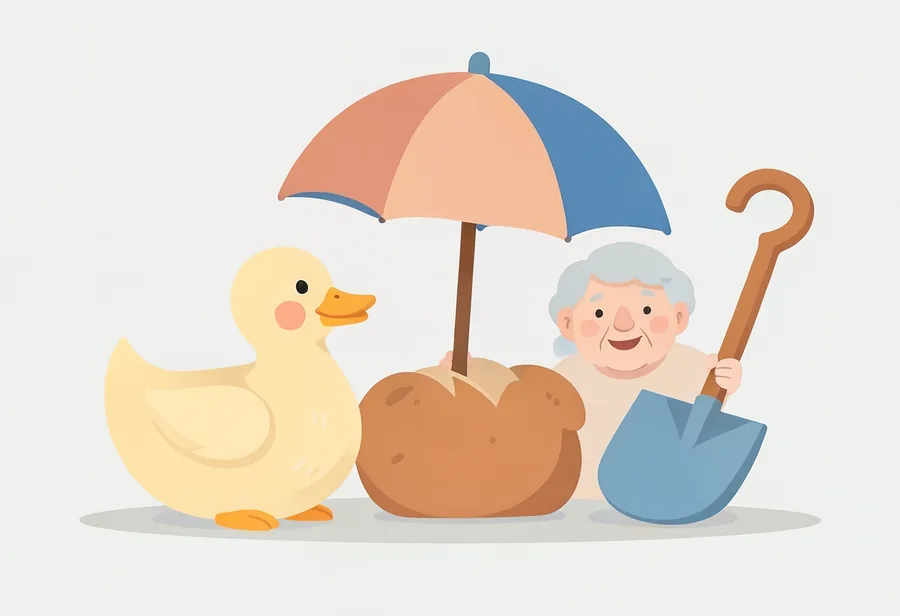
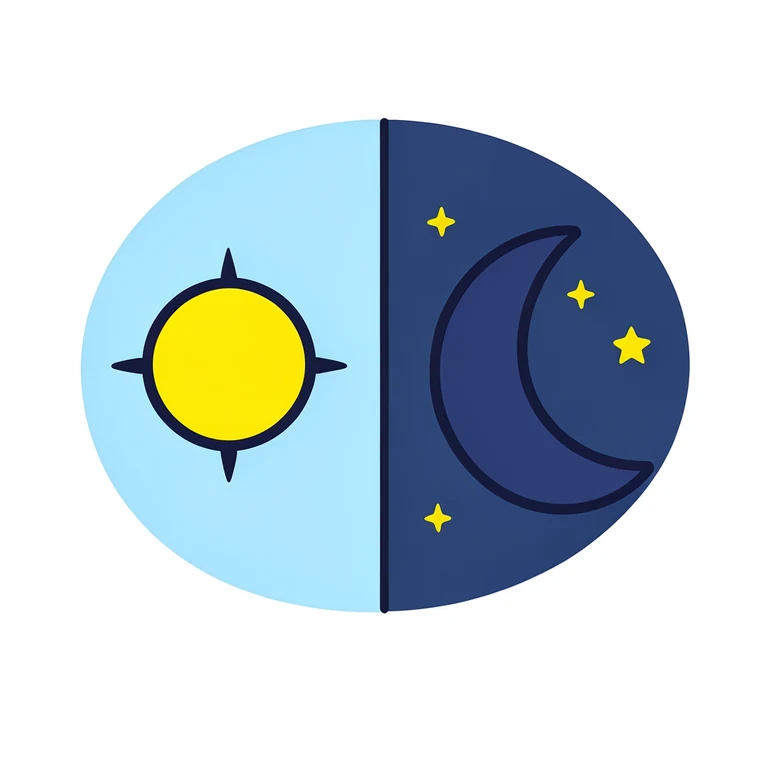
feat(desafio): add antonyms game "Los opuestos" (día 14)
Show a word, tap its opposite among 4 options — a new lexical relation
for the app (paradigmatic opposition; the closest sibling,
CadaCosaEnSuGrupo, tests categorization). Decoys are always same-
dimension-but-not-the-opposite traps (for GRANDE: alto/gordo/ancho,
never the true antonym "chico"). Inspired by the classic antónimos
exercise; all content and art original.

The illustrated/text split doubles as the difficulty ramp: L1 shows
image+caption options for concrete, imageable words; L2/L3 go text-only
as the words turn abstract (bueno/malo, siempre/nunca, fácil/difícil),
which don't illustrate cleanly anyway — the visual support fades
exactly as the semantics get harder. 22 new Flux illustrations (the
four emotion faces share a seed so they read as one family) + 4 reused;
also regenerates the day-14 cover. A wrong tap eliminates that option
(muted grey, never red). Replaces the static day-14 "Palabras con PA".

diff --git a/src/pages/desafio/games/LosOpuestos.tsx b/src/pages/desafio/games/LosOpuestos.tsx
@@ -1,0 +1,269 @@
+import { useEffect, useMemo, useState } from 'react'
+import { RotateCcw, ArrowRight, Sparkles } from 'lucide-react'
+
+/**
+ * "Los opuestos" — an antonyms game (paradigmatic opposition), inspired by
+ * the classic opposites/antónimos language exercise. All content original.
+ *
+ * Antonymy is a distinct lexical relation from category membership
+ * (CadaCosaEnSuGrupo) or definition-matching (QueObjetoEs) — no existing game
+ * tests it. Decoys are always SAME-DIMENSION-but-not-the-opposite traps
+ * (for GRANDE: alto/gordo/ancho, not the true antonym "chico").
+ *
+ * Illustrated at L1 (image + caption options, where concrete words illustrate
+ * cleanly), text-only at L2/L3 as the words turn abstract (bueno/malo,
+ * siempre/nunca) — which doubles as the difficulty ramp: pictures at the easy
+ * level, pure semantic retrieval once warmed up. A wrong tap eliminates that
+ * option (muted grey, never red — word-finding is emotionally loaded).
+ */
+
+interface Round {
+  prompt: string
+  answer: string
+  decoys: string[]
+}
+interface Level {
+  n: number
+  name: string
+  illustrated: boolean
+  hint?: string
+  rounds: Round[]
+}
+
+const LEVELS: Level[] = [
+  {
+    n: 1,
+    name: 'Nivel 1',
+    illustrated: true,
+    hint: 'Tocá el dibujo que significa lo contrario de la palabra.',
+    rounds: [
+      { prompt: 'GRANDE', answer: 'chico', decoys: ['alto', 'gordo', 'ancho'] },
+      { prompt: 'DÍA', answer: 'noche', decoys: ['manana', 'tarde', 'invierno'] },
+      { prompt: 'ARRIBA', answer: 'abajo', decoys: ['cerca', 'lejos', 'adelante'] },
+      { prompt: 'LLENO', answer: 'vacio', decoys: ['limpio', 'sucio', 'nuevo'] },
+      { prompt: 'ABIERTO', answer: 'cerrado', decoys: ['roto', 'nuevo', 'limpio'] },
+      { prompt: 'CONTENTO', answer: 'triste', decoys: ['cansado', 'enojado', 'asustado'] },
+      { prompt: 'RÁPIDO', answer: 'lento', decoys: ['fuerte', 'suave', 'ruidoso'] },
+    ],
+  },
+  {
+    n: 2,
+    name: 'Nivel 2',
+    illustrated: false,
+    hint: 'A partir de acá, las palabras no tienen dibujo — vos ya sabés lo que significan.',
+    rounds: [
+      { prompt: 'LIMPIO', answer: 'sucio', decoys: ['roto', 'mojado', 'viejo'] },
+      { prompt: 'NUEVO', answer: 'viejo', decoys: ['caro', 'lindo', 'grande'] },
+      { prompt: 'CERCA', answer: 'lejos', decoys: ['arriba', 'adentro', 'afuera'] },
+      { prompt: 'GORDO', answer: 'flaco', decoys: ['alto', 'joven', 'fuerte'] },
+      { prompt: 'FRÍO', answer: 'caliente', decoys: ['mojado', 'seco', 'suave'] },
+      { prompt: 'SUBIR', answer: 'bajar', decoys: ['entrar', 'salir', 'caminar'] },
+      { prompt: 'ANCHO', answer: 'angosto', decoys: ['alto', 'bajo', 'largo'] },
+    ],
+  },
+  {
+    n: 3,
+    name: 'Nivel 3',
+    illustrated: false,
+    hint: 'Estas palabras son más abstractas — pensalas un poco más antes de tocar.',
+    rounds: [
+      { prompt: 'BUENO', answer: 'malo', decoys: ['raro', 'aburrido', 'diferente'] },
+      { prompt: 'FÁCIL', answer: 'difícil', decoys: ['rápido', 'largo', 'importante'] },
+      { prompt: 'SIEMPRE', answer: 'nunca', decoys: ['ahora', 'después', 'antes'] },
+      { prompt: 'MUCHO', answer: 'poco', decoys: ['algo', 'nada', 'todo'] },
+      { prompt: 'TEMPRANO', answer: 'tarde', decoys: ['rápido', 'despacio', 'ayer'] },
+      { prompt: 'IGUAL', answer: 'diferente', decoys: ['parecido', 'similar', 'extraño'] },
+      { prompt: 'PRIMERO', answer: 'último', decoys: ['segundo', 'del medio', 'próximo'] },
+    ],
+  },
+]
+
+const IMAGES = import.meta.glob('../../../assets/desafio/games/los-opuestos/*.webp', {
+  eager: true,
+  import: 'default',
+}) as Record<string, string>
+function imgFor(id: string): string | undefined {
+  const match = Object.entries(IMAGES).find(([path]) => path.endsWith(`/${id}.webp`))
+  return match?.[1]
+}
+
+const LABELS: Record<string, string> = { manana: 'mañana', vacio: 'vacío' }
+const labelFor = (id: string) => LABELS[id] ?? id
+
+function shuffle<T>(arr: T[]): T[] {
+  const a = [...arr]
+  for (let i = a.length - 1; i > 0; i--) {
+    const j = Math.floor(Math.random() * (i + 1))
+    ;[a[i], a[j]] = [a[j], a[i]]
+  }
+  return a
+}
+function pickOne<T>(arr: T[]): T {
+  return arr[Math.floor(Math.random() * arr.length)]
+}
+
+const HINTS = ['Ese no es el opuesto — probá con otro.', 'Casi. Pensá en la palabra contraria.', 'No es ese, ¡fijate de nuevo!']
+const PRAISE = ['¡Muy bien!', '¡Excelente!', '¡Así se hace!', '¡Perfecto!', '¡Qué buen vocabulario!']
+
+export function LosOpuestos() {
+  const [levelIdx, setLevelIdx] = useState(0)
+  const [roundKey, setRoundKey] = useState(0)
+  const level = LEVELS[levelIdx]
+
+  const order = useMemo(
+    () => shuffle(level.rounds),
+    // eslint-disable-next-line react-hooks/exhaustive-deps
+    [levelIdx, roundKey],
+  )
+
+  const [currentIndex, setCurrentIndex] = useState(0)
+  const [eliminated, setEliminated] = useState<Set<string>>(new Set())
+  const [solved, setSolved] = useState(false)
+  const [hint, setHint] = useState<string | null>(null)
+  const [levelPraise, setLevelPraise] = useState(PRAISE[0])
+
+  useEffect(() => {
+    setCurrentIndex(0)
+    setEliminated(new Set())
+    setSolved(false)
+    setHint(null)
+  }, [levelIdx, roundKey])
+
+  const round = order[currentIndex]
+  const done = currentIndex >= order.length
+  const options = useMemo(() => (round ? shuffle([round.answer, ...round.decoys]) : []), [round])
+
+  useEffect(() => {
+    if (done) setLevelPraise(pickOne(PRAISE))
+  }, [done])
+
+  function guess(id: string) {
+    if (!round || solved || eliminated.has(id)) return
+    if (id === round.answer) {
+      setSolved(true)
+      setHint(null)
+      window.setTimeout(() => {
+        setCurrentIndex((i) => i + 1)
+        setEliminated(new Set())
+        setSolved(false)
+      }, 500)
+    } else {
+      setEliminated((prev) => new Set(prev).add(id))
+      setHint(pickOne(HINTS))
+    }
+  }
+
+  function nextLevel() {
+    setLevelIdx((i) => (i < LEVELS.length - 1 ? i + 1 : 0))
+    setRoundKey((k) => k + 1)
+  }
+  function replay() {
+    setRoundKey((k) => k + 1)
+  }
+
+  return (
+    <div className="p-5 sm:p-7">
+      {/* Header */}
+      <div className="text-center">
+        <span className="inline-flex items-center gap-1.5 rounded-full bg-tiam-green/10 px-3 py-1 text-xs font-bold uppercase tracking-wide text-tiam-green">
+          Lenguaje · {level.name}
+        </span>
+        {!done && (
+          <>
+            <h2 className="mt-3 text-xl font-bold text-slate-900 sm:text-2xl">¿Cuál es el opuesto?</h2>
+            {level.hint && <p className="mt-2 text-sm font-medium text-tiam-blue">{level.hint}</p>}
+            <p className="mt-2 text-base font-semibold text-slate-500">
+              Llevás {currentIndex} de {order.length}
+            </p>
+            <div className="mx-auto mt-3 h-2 w-full max-w-xs overflow-hidden rounded-full bg-slate-100">
+              <div
+                className="h-full rounded-full bg-tiam-green transition-[width] duration-300"
+                style={{ width: `${(currentIndex / order.length) * 100}%` }}
+              />
+            </div>
+          </>
+        )}
+      </div>
+
+      {!done && round && (
+        <>
+          {/* Prompt word */}
+          <div className="mt-6 text-center">
+            <span className="inline-block rounded-2xl border-2 border-slate-200 bg-white px-8 py-5 text-3xl font-extrabold tracking-wide text-slate-800 sm:text-4xl">
+              {round.prompt}
+            </span>
+          </div>
+
+          {/* Options */}
+          <div className="mt-6 grid grid-cols-2 gap-3">
+            {options.map((id) => {
+              const isEliminated = eliminated.has(id)
+              const isSolved = solved && id === round.answer
+              const img = level.illustrated ? imgFor(id) : undefined
+              return (
+                <button
+                  key={id}
+                  type="button"
+                  disabled={solved || isEliminated}
+                  onClick={() => guess(id)}
+                  aria-label={labelFor(id)}
+                  className={[
+                    'transition focus:outline-none focus:ring-2 focus:ring-tiam-blue/40',
+                    level.illustrated
+                      ? 'flex min-h-[128px] flex-col items-center justify-center gap-2 rounded-2xl border-2 p-4'
+                      : 'min-h-[64px] rounded-2xl border-2 px-4 py-3 text-lg font-bold sm:text-xl',
+                    isSolved
+                      ? 'border-tiam-green bg-tiam-green/5 text-slate-900 ring-2 ring-tiam-green/30'
+                      : isEliminated
+                        ? level.illustrated
+                          ? 'border-slate-200 bg-slate-50 opacity-40 grayscale'
+                          : 'border-slate-200 bg-slate-50 text-slate-300 line-through'
+                        : 'border-slate-200 bg-white text-slate-700 hover:-translate-y-0.5 hover:border-tiam-blue/40 hover:shadow-md active:translate-y-0',
+                  ].join(' ')}
+                >
+                  {level.illustrated && img && (
+                    <img src={img} alt="" className="h-16 w-16 object-contain sm:h-20 sm:w-20" draggable={false} />
+                  )}
+                  <span className={level.illustrated ? 'text-base font-bold text-slate-700' : ''}>{labelFor(id)}</span>
+                </button>
+              )
+            })}
+          </div>
+
+          {hint && !solved && <p className="mt-4 text-center text-sm font-medium text-slate-500">{hint}</p>}
+        </>
+      )}
+
+      {/* Completion */}
+      {done && (
+        <div className="mt-6 rounded-3xl border border-tiam-green/20 bg-tiam-green/5 p-6 text-center">
+          <div className="mx-auto flex h-12 w-12 items-center justify-center rounded-full bg-tiam-green/15">
+            <Sparkles className="h-6 w-6 text-tiam-green" />
+          </div>
+          <p className="mt-3 text-xl font-bold text-slate-900">{levelPraise}</p>
+          <p className="mt-1 text-slate-600">
+            ¡Encontraste los {order.length} opuestos — completaste el {level.name.toLowerCase()}!
+          </p>
+          <div className="mt-5 flex flex-col justify-center gap-3 sm:flex-row">
+            <button
+              type="button"
+              onClick={nextLevel}
+              className="inline-flex min-h-[48px] items-center justify-center gap-2 rounded-xl bg-tiam-blue px-5 font-semibold text-white hover:bg-tiam-blue-dark"
+            >
+              {levelIdx < LEVELS.length - 1 ? 'Siguiente nivel' : 'Empezar de nuevo'}
+              <ArrowRight className="h-4 w-4" />
+            </button>
+            <button
+              type="button"
+              onClick={replay}
+              className="inline-flex min-h-[48px] items-center justify-center gap-2 rounded-xl border border-slate-200 px-5 font-semibold text-slate-600 hover:bg-slate-50"
+            >
+              <RotateCcw className="h-4 w-4" />
+              Otra ronda
+            </button>
+          </div>
+        </div>
+      )}
+    </div>
+  )
+}

diff --git a/src/lib/challengeContent.ts b/src/lib/challengeContent.ts
@@ -93,8 +93,8 @@ const DAYS_CONTENT: Omit<ChallengeDayContent, 'illustration'>[] = [
     instructions: 'Un juego de razonamiento: ordená las frases de una conversación en el orden correcto. Subís de dificultad a medida que avanzás.' },
   { day: 13, type: 'game', area: 'atencion', title: 'Camino numérico',
     instructions: 'Un juego de atención: tocá los números en el orden correcto, del 1 en adelante, estén donde estén en la pantalla. Subís de dificultad a medida que avanzás.' },
-  { day: 14, type: 'card', area: 'lenguaje', title: 'Palabras con PA',
-    instructions: 'En dos minutos, escribí todas las palabras que empiecen con “pa”: pato, pared, pantalón… ¿Cuántas juntaste?' },
+  { day: 14, type: 'game', area: 'lenguaje', title: 'Los opuestos',
+    instructions: 'Un juego de lenguaje: mirá la palabra y tocá cuál de las opciones es su opuesto. Subís de dificultad a medida que avanzás.' },
 
   // ── Semana 3 — combinar áreas / recuerdo demorado ─────────────────────────
   { day: 15, type: 'card', area: 'memoria', title: 'La canción de tu juventud',

diff --git a/src/pages/desafio/games/registry.ts b/src/pages/desafio/games/registry.ts
@@ -23,6 +23,7 @@ import { QueCambio } from './QueCambio'
 import { ElReloj } from './ElReloj'
 import { QueOficioEs } from './QueOficioEs'
 import { LaBalanza } from './LaBalanza'
+import { LosOpuestos } from './LosOpuestos'
 
 /**
  * Interactive games keyed by challenge day. A day whose `type` is 'game' and whose
@@ -40,6 +41,7 @@ export const GAMES: Record<number, ComponentType> = {
   7: CadaCosaEnSuGrupo,
   9: ElReloj,
   13: CaminoNumerico,
+  14: LosOpuestos,
   8: OrdenarLaFrase,
   10: CuatroPalabras,
   11: QueHayEnLaMesa,